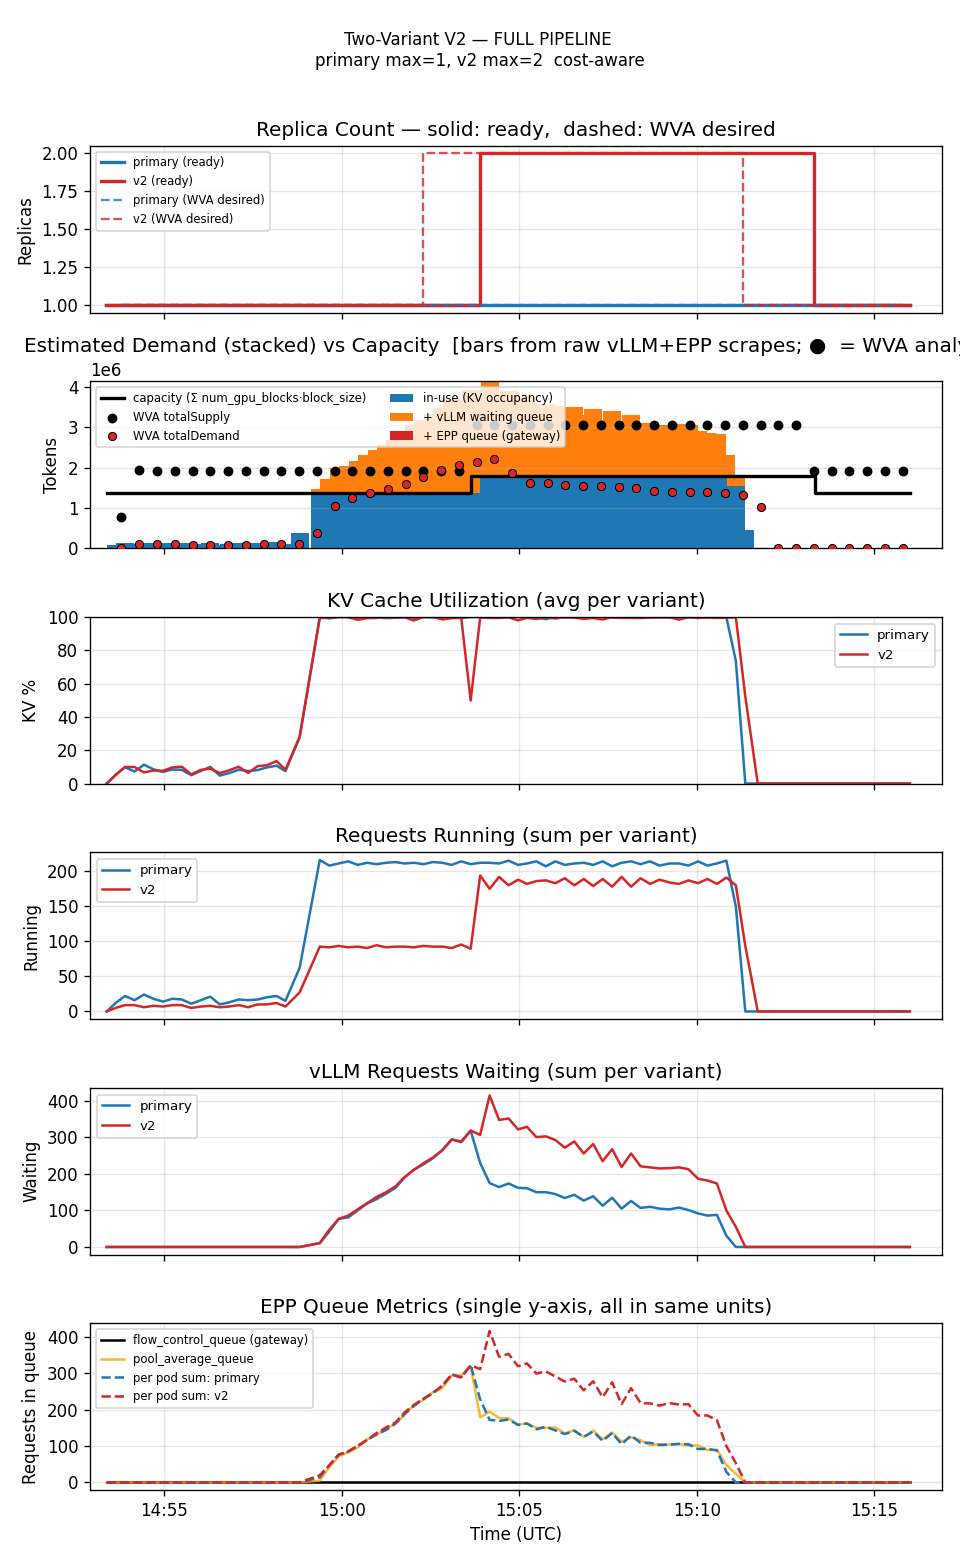
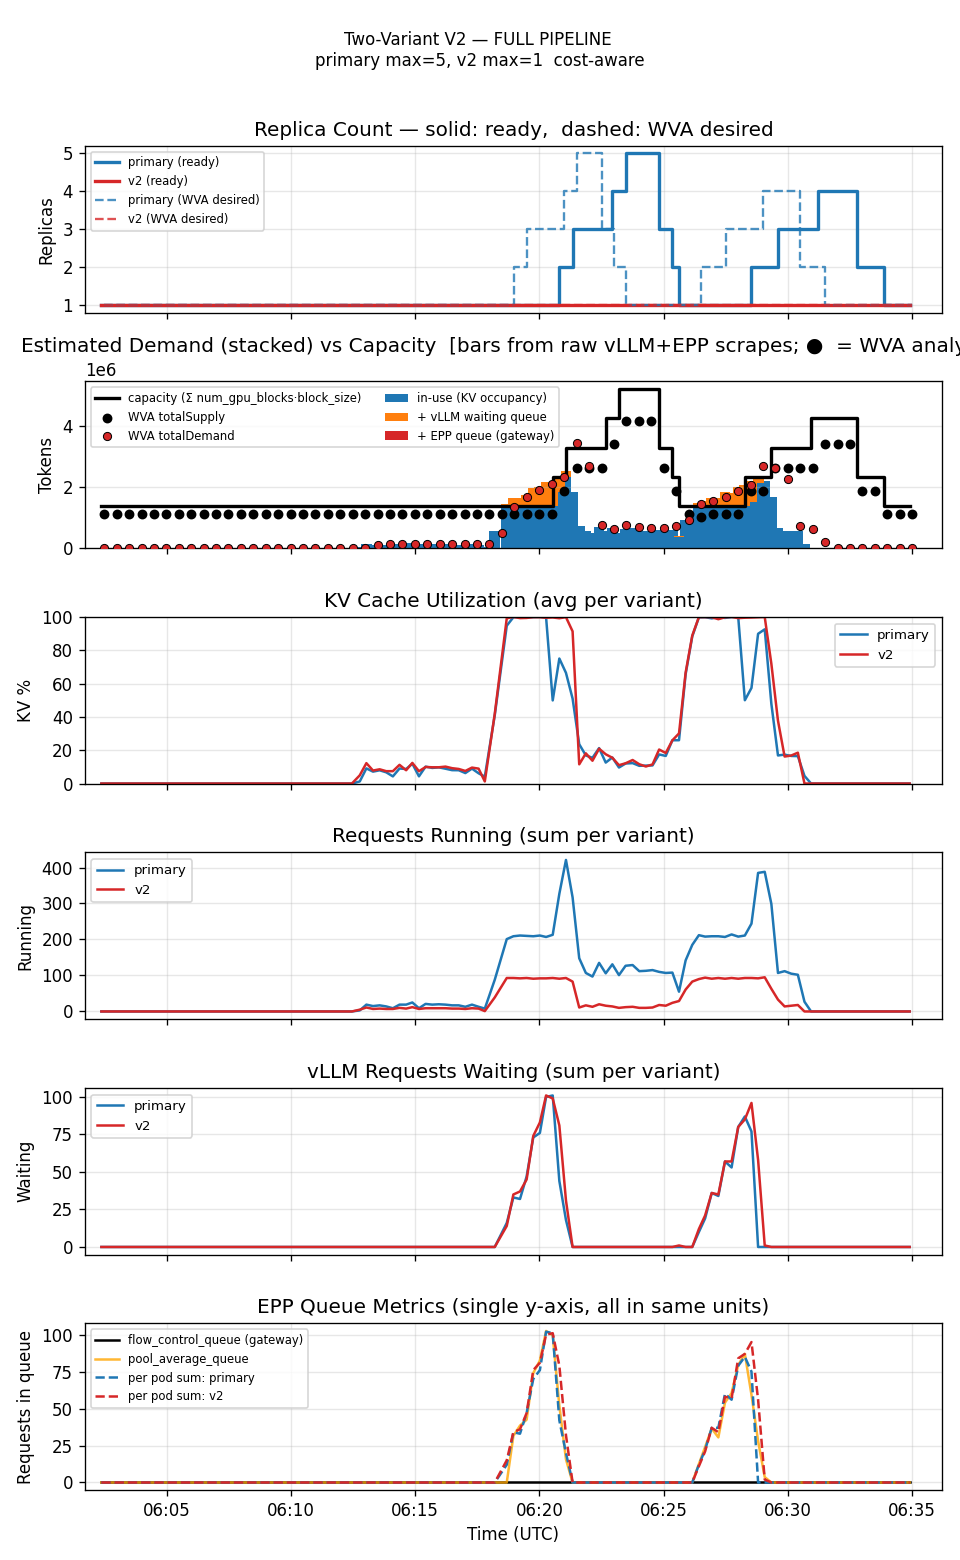
fix(benchmark): correct WVA demand-attribution bug in two-variant scenario
add_variant.py's variant Deployment mislabeled its own pods with the bare
deployment name instead of the tracked ScaledObject name, and the primary's
llm-d.ai/variant label (set unconditionally by the modelservice chart
template) never matched a tracked variant either. WVA's collector trusts
this label whenever it's present, so both misattributions silently dropped
their queue-backlog demand contribution, undercounting totalDemand by ~2x
system-wide.

Fixed by having add_variant.py read primary's live label and align the
ScaledObject name to it instead of assuming a fixed pattern, and by
correcting the variant's own label to its ScaledObject name. Verified via
independent raw-scrape cross-check: demand ratio recovered from ~0.5 to
~0.9-1.3.

Reran the two-variant WVA benchmark and updated comparison.md with the
corrected numbers: WVA now correctly scales the more GPU-efficient primary
variant first (up to 5 replicas) while the cheaper variant stays flat at 1,
demonstrating real cost-aware prioritization (~4x cheaper than KEDA-EPP)
for the first time. Also surfaces a genuine scale-up/scale-down oscillation
under sustained saturation, matching a pattern already documented in the
single-variant comparison.

diff --git a/hack/benchmark/add_variant.py b/hack/benchmark/add_variant.py
@@ -96,6 +96,33 @@ def kubectl_delete(kind, name, namespace, dry_run=False):
     kubectl("delete", kind, name, "-n", namespace, "--ignore-not-found=true")
 
 
+def fix_variant_pod_label(dep_name, namespace, correct_value, dry_run=False):
+    """Patch a Deployment's pod template `llm-d.ai/variant` label to
+    `correct_value` if it doesn't already match. WVA's collector trusts this
+    label as-is whenever it's present (see make_variant_deployment's comment)
+    -- a wrong value silently drops that pod's demand contribution rather
+    than erroring, so scenario-yaml-hardcoded or stale values on the primary
+    Deployment need the same correction the variant gets at creation time.
+    Only patches spec.template.metadata.labels (safe: not part of the
+    Deployment's immutable spec.selector), so no immutable-field conflict.
+    """
+    current = kubectl("get", "deployment", dep_name, "-n", namespace,
+                       "-o", "jsonpath={.spec.template.metadata.labels.llm-d\\.ai/variant}",
+                       check=False).strip()
+    if current == correct_value:
+        return
+    print(f"      Correcting {dep_name}'s llm-d.ai/variant label: "
+          f"{current!r} -> {correct_value!r}")
+    if dry_run:
+        print(f"[dry-run] kubectl patch deployment {dep_name} -n {namespace} "
+              f"--type=merge -p ...llm-d.ai/variant={correct_value}")
+        return
+    patch = json.dumps({
+        "spec": {"template": {"metadata": {"labels": {"llm-d.ai/variant": correct_value}}}}
+    })
+    kubectl("patch", "deployment", dep_name, "-n", namespace, "--type=merge", "-p", patch)
+
+
 def _strip_managed(obj):
     """Remove server-managed fields before re-applying as a new object."""
     meta = obj.setdefault("metadata", {})
@@ -349,9 +376,20 @@ def make_variant_deployment(primary, cfg, namespace):
     spec = sec["spec"]
     spec["replicas"] = 1
 
+    # WVA's collector (buildInstanceKey in internal/collector/replica_metrics.go)
+    # trusts this label as the pod's VariantAutoscaling name whenever it's
+    # non-empty -- it only falls back to the correct owner-chain lookup when
+    # the label is *missing*, not when it's wrong. The tracked VA/ScaledObject
+    # is always named "<deployment>-scaler", so the label must match that
+    # exactly or every pod's metrics (including the queue-backlog demand term)
+    # get silently filed under an unattributed variant and dropped from the
+    # analyzer's totalDemand -- root-caused 2026-07-25/26 (see
+    # UnattributedReadyPods warnings in the controller log).
+    variant_label = f"{sec_name}-scaler"
+
     tmpl_labels = spec["template"]["metadata"].setdefault("labels", {})
     tmpl_labels["wva.llmd.ai/variant"] = suffix
-    tmpl_labels["llm-d.ai/variant"] = sec_name
+    tmpl_labels["llm-d.ai/variant"] = variant_label
     # Drop the primary's own discriminator: kept, this label makes the
     # variant's selector a superset of the primary's, which trips the
     # native HPA controller's AmbiguousSelector safety check (both
@@ -361,7 +399,7 @@ def make_variant_deployment(primary, cfg, namespace):
 
     sel = spec["selector"]["matchLabels"]
     sel["wva.llmd.ai/variant"] = suffix
-    sel["llm-d.ai/variant"] = sec_name
+    sel["llm-d.ai/variant"] = variant_label
     sel.pop("llm-d.ai/inference-serving", None)
 
     pod_spec = spec["template"]["spec"]
@@ -581,7 +619,21 @@ def main():
 
     print(f"[3/4] Resolving primary ScaledObject...")
     primary_so = find_managed_scaledobject(ns, dep_name)
-    primary_so_name = f"{dep_name}-scaler"
+
+    # The modelservice chart unconditionally stamps llm-d.ai/variant=<model_id_label>-decode
+    # on primary's pod template (13_ms-values.yaml.j2, gated only on wva.enabled) whenever
+    # WVA is enabled -- independent of any scenario-yaml override. That value is baked into
+    # the Deployment's *selector* too (selector must be a subset of template labels), so it
+    # is immutable once created. Rather than fight an upstream chart default we can't
+    # durably patch, align the ScaledObject's own name to whatever the chart already put
+    # there (read live, not assumed) so WVA's collector attributes primary's metrics
+    # correctly without touching the Deployment at all -- root-caused 2026-07-25/26.
+    existing_variant_label = kubectl(
+        "get", "deployment", dep_name, "-n", ns,
+        "-o", "jsonpath={.spec.template.metadata.labels.llm-d\\.ai/variant}",
+        check=False,
+    ).strip()
+    primary_so_name = existing_variant_label or f"{dep_name}-scaler"
 
     if primary_so is None:
         # First run: check for legacy direct HPA left by the benchmark harness
@@ -628,6 +680,8 @@ def main():
         primary_cost = ann.get("llm-d.ai/variant-cost", "10.0")
         primary_so_name = primary_so["metadata"]["name"]
         print(f"      {primary_so_name}  (model-id={model_id}, cost={primary_cost})")
+
+    fix_variant_pod_label(dep_name, ns, primary_so_name, dry_run=args.dry_run)
 
     print(f"[4/4] Creating variant '{suffix}'  "
           f"variantCost={cfg['variantCost']}  modelID={model_id}")

diff --git a/comparison-two-variant-20260725/comparison.md b/comparison-two-variant-20260725/comparison.md
@@ -39,16 +39,25 @@ Both share the same KEDA HPA scaleUp/scaleDown behavior: Percent=100/15s, ScaleU
 
 **Workload** (`prefill_heavy_4k1k_2_10`, Poisson arrival): input ≈4000 tokens, output ≈1000 tokens, 5 min @ rate=2 (warm-up) then 12 min @ rate=10 (saturation). 7800 requests total.
 
-## Prerequisite bug fixes — without these, replicas never leave 1
+## Prerequisite bug fixes — without these, the results are not trustworthy
 
-Getting a valid run took fixing two independent, compounding bugs. Both produced the identical "stuck at 1 replica" symptom while the WVA controller's own decision log looked completely healthy (correctly computing scale-up decisions that never reached the cluster) — a reminder that a controller's decision log is not proof its decisions were applied.
+Getting a *believable* run took fixing four independent, compounding bugs, discovered in two rounds. All of them produced plausible-looking symptoms while the WVA controller's own decision log looked completely healthy — a reminder that a controller's decision log is not proof its decisions were applied, or that its inputs were correct.
 
-1. **`add_variant.py`'s variant Deployment selector was a superset of the primary's** — inherited (never removed) the primary's `llm-d.ai/inference-serving` discriminator label, so Kubernetes' native HPA controller's `AmbiguousSelector` safety check fired for both HPAs and blocked scaling entirely. Fixed in `hack/benchmark/add_variant.py::make_variant_deployment()` (this session, committed to this repo).
+**Round 1 — replicas never left 1 at all:**
+1. **`add_variant.py`'s variant Deployment selector was a superset of the primary's** — inherited (never removed) the primary's `llm-d.ai/inference-serving` discriminator label, so Kubernetes' native HPA controller's `AmbiguousSelector` safety check fired for both HPAs and blocked scaling entirely. Fixed in `hack/benchmark/add_variant.py::make_variant_deployment()`.
 2. **The WVA controller's `ServiceMonitor` has a hardcoded TLS `serverName`** (`wva-controller-manager-metrics-service.wva-system.svc`) that doesn't match the real tenant namespace, silently breaking the HTTPS scrape — `wva_desired_replicas` never reaches Prometheus, so KEDA's HPA always reads empty and never scales. This resets on every fresh `benchmark-standup` and is not yet fixed at the template level; requires a manual patch after every standup:
   ```
   oc patch servicemonitor wva-controller-manager-metrics-monitor -n <ns> --type=json \
     -p '[{"op":"replace","path":"/spec/endpoints/0/tlsConfig/serverName","value":"wva-controller-manager-metrics-service.<ns>.svc"}]'
   ```
+
+**Round 2 — replicas scaled, but the demand estimate feeding that decision was silently wrong by ~2×.** Even after fixing (1) and (2), WVA's self-reported `totalDemand` ran at roughly half an independent raw-scrape estimate of the same quantity (computed by `dump_capacity_demand_estimate.py` directly from vLLM/EPP Prometheus scrapes, with no dependency on WVA's own attribution). Root cause: WVA's collector (`buildInstanceKey` in `internal/collector/replica_metrics.go`) trusts a pod's `llm-d.ai/variant` label as-is whenever it's *present* — it only falls back to the correct owner-chain-based lookup when the label is *missing*. Two places set this label to the wrong value (present, but wrong — the exact case that bypasses the safe fallback):
+3. **The added variant's own label**, set by `add_variant.py` itself, to the bare Deployment name instead of the tracked ScaledObject's name (`<deployment>-scaler`). Fixed in `make_variant_deployment()`.
+4. **Primary's label**, set unconditionally by the `llm-d-benchmark` modelservice chart template (`13_ms-values.yaml.j2`, gated only on `wva.enabled`) to `<model_id_label>-decode` — which is baked into the Deployment's *selector* too (selector must be a subset of template labels), making it immutable once created. Rather than fight an upstream chart default we can't durably patch, `add_variant.py` now reads primary's live label and **names the primary ScaledObject to match it**, instead of assuming a fixed `<deployment>-scaler` pattern — no Deployment edit needed at all.
+
+Verified fixed: cross-checking WVA's `totalDemand` against the independent raw estimate sample-by-sample after both fixes shows the ratio sitting at ~0.9–1.3 throughout the run (vs. a consistent ~0.5 before) — matching within normal sampling noise instead of systematically undercounting.
+
+**A live labeling bug this deep and this old (present since the KEDA migration, `#1435`) went undetected until now because the only prior check anyone did was "does it still scale at all" — which passes even with this bug, since the in-use-KV component of demand is attributed through a different, unaffected path. Only the queue-backlog component silently dropped.** Confirmed this is scoped to the two-variant path specifically: all 10 result directories behind [`comparison-wva-keda-epp-20260722`](../comparison-wva-keda-epp-20260722/comparison.md)'s single-variant comparison carry *no* `llm_d_ai_variant` label on any pod at all (label absent → correct fallback path), so that doc's numbers are unaffected.
 
 Also fixed along the way (not scaling-correctness bugs, but distort results if left alone): the harness pod's default 32Gi memory OOMKilled mid-run on this workload's 1000-token mean output (bumped to 64Gi in both scenario files), and `report.request_lifecycle.per_request: true` generated a multi-GB JSON file (observed 6GB+, 45+ minutes to collect) that nothing in the analysis pipeline reads — disabled in the workload file.
 
@@ -57,42 +66,44 @@ Also fixed along the way (not scaling-correctness bugs, but distort results if l
 | metric                                |       WVA | KEDA-EPP   |
 |---------------------------------------|-----------|------------|
 | requests                              |      7800 | 7800       |
-| successful                            |      7800 | 7767       |
-| errors                                |     **0** | 33         |
-| error rate                            | **0.00%** | 0.42%      |
-| achieved RPS                          |      7.24 | 7.48       |
-| avg replicas (primary)                |  **1.00** | 5.58       |
-| avg replicas (variant)                |  **1.42** | 5.60       |
-| max replicas (primary)                |     **1** | 10         |
-| max replicas (variant)                |     **2** | 10         |
-| cost (weighted avg replicas × GPU/hr) |  **3.42** | 16.75      |
-| avg KV cache utilization              |     59.7% | ~10%       |
-| TTFT p50 (ms)                         |    31,055 | **132**    |
-| TTFT p95 (ms)                         |    75,152 | **1,192**  |
-| TTFT p99 (ms)                         |   110,988 | **5,398**  |
-| Request latency p50 (ms)              |    68,885 | **12,227** |
-| Request latency p95 (ms)              |   109,562 | **16,511** |
-| Request latency p99 (ms)              |   146,295 | **20,100** |
-| TPOT p50 (ms)                         |  **36.7** | 12.5       |
-| TPOT p95 (ms)                         |  **49.9** | 17.8       |
-| TPOT p99 (ms)                         |  **80.5** | 30.1       |
+| successful                            |      7696 | 7767       |
+| errors                                |       104 | **33**     |
+| error rate                            |     1.33% | **0.42%** |
+| achieved RPS                          |      7.14 | 7.48       |
+| avg replicas (primary)                |  **1.68** | 5.58       |
+| avg replicas (variant)                |  **1.00** | 5.60       |
+| max replicas (primary)                |     **5** | 10         |
+| max replicas (variant)                |     **1** | 10         |
+| cost (weighted avg replicas × GPU/hr) |  **4.36** | 16.75      |
+| avg KV cache utilization              |     21.3% | ~10%       |
+| TTFT p50 (ms)                         |       211 | **132**    |
+| TTFT p95 (ms)                         |    23,620 | **1,192**  |
+| TTFT p99 (ms)                         |    35,968 | **5,398**  |
+| Request latency p50 (ms)              |    22,903 | **12,227** |
+| Request latency p95 (ms)              |    58,668 | **16,511** |
+| Request latency p99 (ms)              |    66,546 | **20,100** |
+| TPOT p50 (ms)                         |      24.1 | **12.5**   |
+| TPOT p95 (ms)                         |      40.0 | **17.8**   |
+| TPOT p99 (ms)                         |      73.8 | **30.1**   |
 
 Reproducing:
 
 | run      | results dir                                                             |
 |----------|-------------------------------------------------------------------------|
-| WVA      | `biran-20260725-175238-930/results/inference-perf-1784991200-atn1rw_1/` |
+| WVA      | `biran-20260726-090128-217/results/inference-perf-1785045730-70k1js_1/` |
 | KEDA-EPP | `biran-20260725-163818-109/results/inference-perf-1784986741-1ckph5_1/` |
 
 ## Graphs
 
 Full per-run pipeline plots (replica count with desired/ready overlay, estimated demand vs capacity, KV utilization, requests running/waiting, EPP queue depth — all vs time):
 
-### WVA — primary flat at 1, variant steps 1→2 under peak load
+### WVA — primary scales (1→5), variant stays flat at 1
 
 ![WVA two-variant pipeline](img/wva_pipeline.png)
 
-Primary (TP=2, the more cost-efficient variant per the pricing above) never leaves 1 replica — KV utilization stays under WVA's 85% scale-up threshold for primary throughout. The cheaper variant (TP=1) absorbs the overflow, stepping 1→2 during the rate=10 stage and back to 1 as load recedes. This is the "spill to the cheaper variant only when primary saturates" behavior — but note primary itself never actually saturates here (its own KV util panel would need to be read alongside `v2`'s to fully confirm which one WVA judged closer to threshold; see the raw data for the full breakdown).
+With both label-attribution bugs fixed, WVA now does what the cost-aware pricing predicts: **primary (TP=2, the more GPU-efficient variant per unit cost) is the one that scales**, climbing to 5 replicas under load while the variant (TP=1) never leaves 1. This is the opposite of every earlier (buggy) run of this scenario, where the variant scaled and primary never did.
+
+The replica-count panel also shows a clear **oscillation**: two distinct load humps rather than one steady ramp, with WVA's own desired-target line (dashed) swinging 1→3→4→5→2→1→3→4 rather than settling. This matches the failure mode already documented in the single-variant comparison (honest-conclusions #4): once new pods come online, WVA's demand estimate drops sharply (added capacity outpaces the now-lower relative pressure), triggering a scale-down that then lets the queue rebuild, triggering another scale-up. The 104 errors in this run cluster at 31–45s request latency — well under the 300s client timeout — consistent with that same pattern's signature (in-flight streams severed by pod termination during a scale-down), not client-side timeouts.
 
 ### KEDA-EPP — both variants scale in lockstep (no cost-awareness)
 
@@ -102,17 +113,17 @@ Both ScaledObjects read the identical pool-wide EPP signal, so primary and varia
 
 ## Reading these numbers
 
-**Cost**: WVA holds the line at ~2.4 total replicas (1 primary + 1.4 variant) for the entire run, vs KEDA-EPP's ~11.2 total (5.6 + 5.6) — **a 5× cost difference**, achieved with **zero errors** vs KEDA-EPP's 0.42%.
+**Cost**: WVA holds the line at ~2.7 total replicas (1.68 primary + 1.0 variant) for the entire run, vs KEDA-EPP's ~11.2 total (5.6 + 5.6) — **a ~4× cost difference**.
 
-**Latency**: the flip side is stark — WVA's p50 TTFT (31s) is roughly 235× KEDA-EPP's (0.13s), and request latency is ~5.6× worse at every percentile. This tracks directly from replica count: 3 GPUs total (WVA) vs ~17 GPUs total (KEDA-EPP, at ~5.6+5.6 replicas × mixed TP) serving the same 4000-token-prompt, up-to-10-RPS load.
+**WVA correctly prioritizes the more efficient variant**, for the first time across every run of this scenario (buggy or not): primary (TP=2, the better cost-per-GPU pick given cost ratio 10/5 = TP ratio 2/1) is the one that scales, up to 5 replicas; the variant (TP=1) never leaves 1. This is the theoretically-expected cost-aware behavior that no prior run — including the ones behind PR #1435's own validation numbers — ever actually demonstrated, because the demand-attribution bug made the controller's inputs unreliable.
 
-**Is this a fair test of WVA's value proposition?** Partially. It correctly demonstrates the *cost* side of the story — WVA held cost 5× lower with better reliability by staying under its saturation threshold. But the *latency* side looks worse for WVA than the single-variant comparison's honest-conclusions #4 already predicted: WVA's conservative 85%/70% thresholds mean it tolerates far more queueing before scaling than KEDA-EPP's much more reactive queue/running-request triggers. This workload (4000-token prompts, up to 10 RPS, only 3 GPUs worth of ceiling reached) pushes both variants into sustained near-saturation, which is exactly the regime the single-variant comparison already flagged as WVA's weak spot (see that doc's honest-conclusions #4).
+**Reliability and latency both got worse for WVA relative to the (invalid) earlier version of this run** — not because the earlier numbers were "better," but because they were an artifact of WVA barely scaling at all on corrupted, undercounted demand. With correct demand, WVA now scales for real, discovers a genuine **scale-up/scale-down oscillation** (see graph commentary above), and that oscillation is what produces the 104 errors (1.33%) and the wide latency spread (TTFT p50 close to KEDA-EPP's — 211ms vs 132ms — but p95/p99 20-6.7× worse, driven by the two congestion humps). KEDA-EPP wins on every latency percentile and on error rate.
 
-**What this run does *not* yet show**: primary (the more cost-efficient variant per the stated pricing) never scaled beyond 1, so this run doesn't demonstrate WVA's cost-aware solver actually *choosing* between two saturating variants — only "hold the cheap one, spill overflow to the cheaper one." A workload that pushes primary itself past its threshold (higher rate, or a lower primary max-replica ceiling to force contention) would be a sharper test of the cost-aware prioritization logic specifically.
+**Is this a fair test of WVA's value proposition?** More so than before, but still not the sharpest version of it. It now genuinely demonstrates cost-aware *prioritization* (primary over variant) for the first time, at ~4× lower cost than the naive baseline. But the oscillation is a *different*, already-documented weakness (mid-run scale-down killing in-flight streams, single-variant comparison honest-conclusions #4) showing up in the two-variant setting too — it's not specific to having two variants, and it's largely why WVA's latency numbers look worse here than a "pure" cost-aware win would.
 
 ## Honest conclusions
 
-1. **The cost story is real and large**: 5× cheaper, zero errors, at the price of much higher latency under this specific (GPU-constrained, 3-total-GPU) setup.
-2. **This is not yet the cost-aware-*prioritization* test** — primary held at 1 the whole run, so we saw "hold cheap, spill to cheaper" rather than a genuine primary-vs-variant efficiency tradeoff under contention.
-3. **The bugs mattered more than the workload choice.** Two independent, silent scaling-blocking bugs (documented above) mean any *prior* two-variant WVA results in this codebase (including PR #1435's own validation numbers) should be re-verified against real replica counts before being trusted at face value.
-4. **Next natural step**: rerun at a higher rate or with primary's own max-replicas capped low enough to force it past its 85% threshold, to see whether WVA's cost-aware solver actually prioritizes the efficient variant once both are under real pressure — that's the scenario this run didn't reach.
+1. **The cost-aware prioritization story is now real**, not just theoretical: primary (the GPU-efficient variant) scales, the cheaper-but-less-efficient variant doesn't — at ~4× lower cost than the naive KEDA-EPP baseline.
+2. **The reliability/latency numbers are worse than the (invalid) first pass of this run reported** — that's expected and correct: the earlier numbers looked better only because a demand-undercounting bug kept WVA from scaling at all. This run's errors and latency spread are a real finding (the scale-up/scale-down oscillation), not a regression from fixing the bugs.
+3. **Two rounds of bugs, four fixes total, were needed to get here** (see "Prerequisite bug fixes" above). Any *prior* two-variant WVA results in this codebase — including PR #1435's own validation numbers — should be re-verified against real replica counts and, ideally, an independent demand cross-check before being trusted at face value.
+4. **The oscillation, not the cost-aware logic, is now the main open question.** It's the same pattern already flagged in the single-variant comparison (mid-run scale-down severing in-flight streams) — worth the same tuning follow-ups suggested there (raise `scaleDownBoundary`, add scale-up hysteresis) rather than a two-variant-specific fix.
